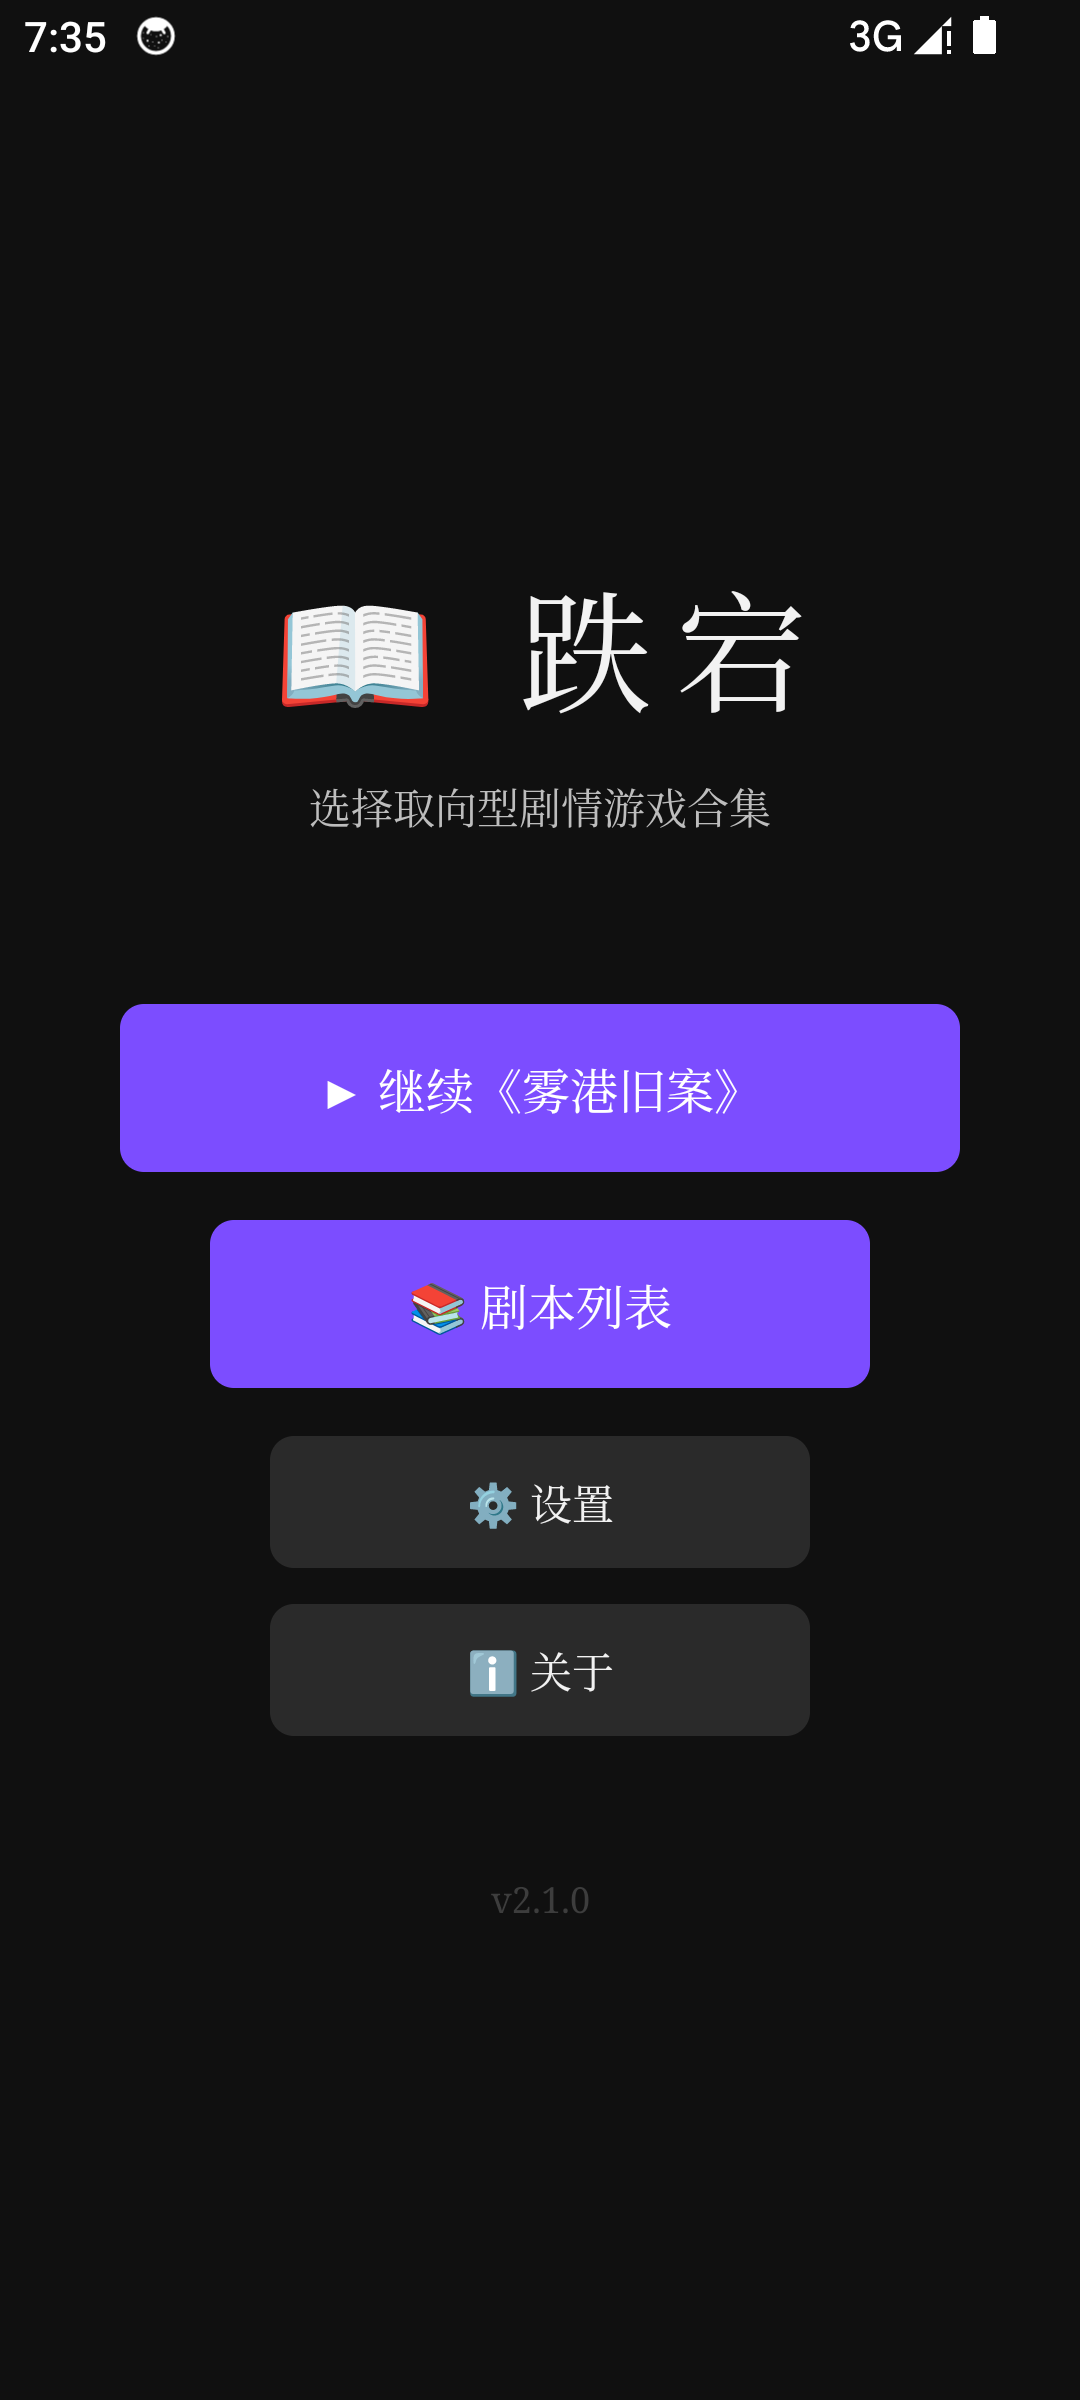
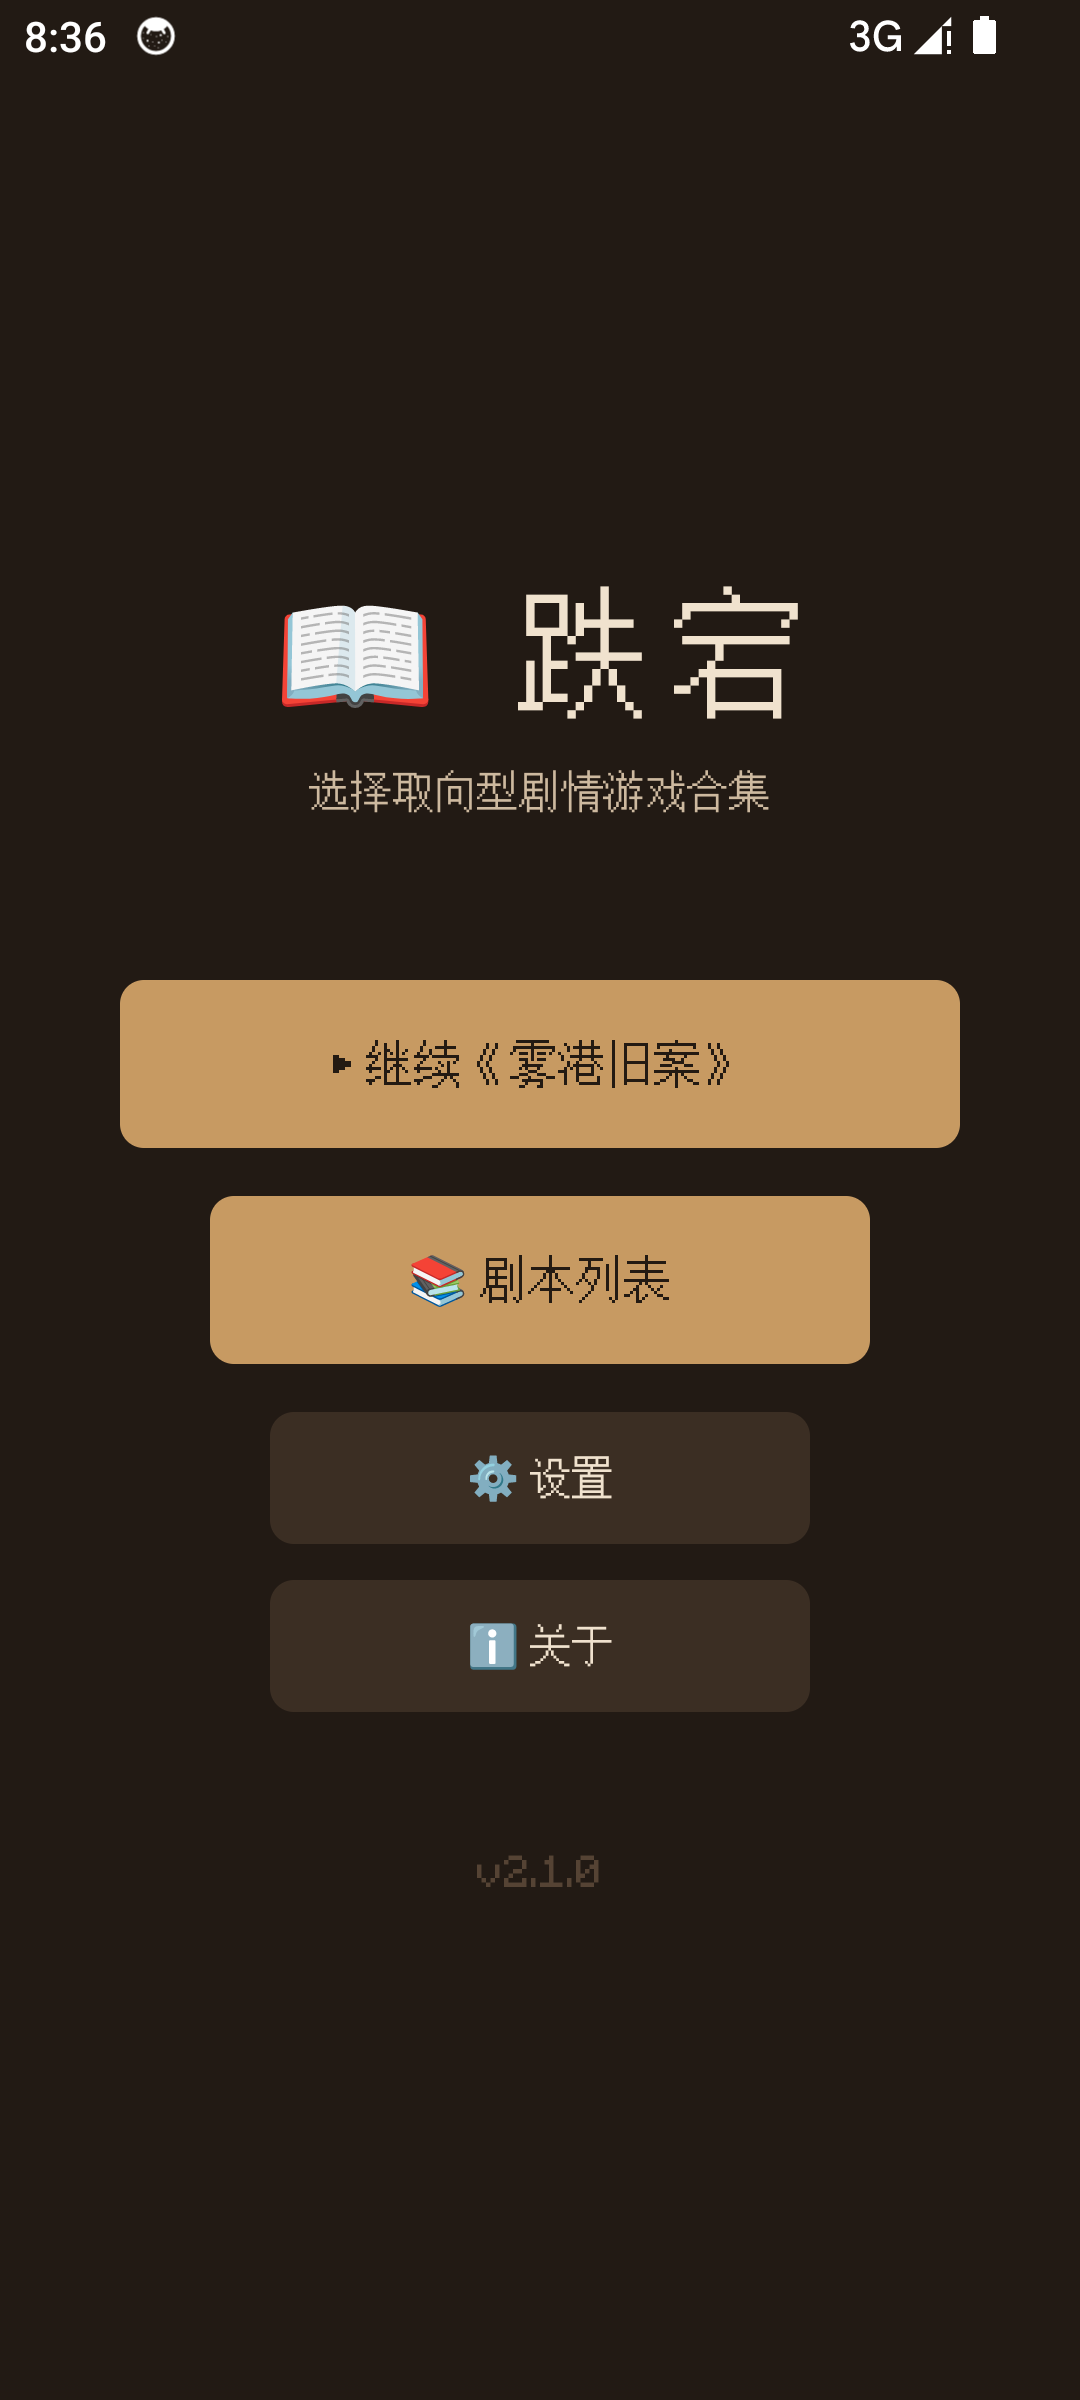
docs: 平台化文案（剧本按 DLC 呈现），关于页与列表页去掉解释性文字

Changed region(s): [[0.0917, 0.4062, 0.8861, 0.7188], [0.275, 0.25, 0.7333, 0.3438], [0.4583, 0.75, 0.55, 0.8125]]

diff --git a/app/src/main/java/com/yumoo/diedang/ui/screens/AboutScreen.kt b/app/src/main/java/com/yumoo/diedang/ui/screens/AboutScreen.kt
@@ -15,21 +15,25 @@ import androidx.compose.foundation.shape.RoundedCornerShape
 import androidx.compose.foundation.verticalScroll
 import androidx.compose.material3.Card
 import androidx.compose.material3.CardDefaults
+import androidx.compose.material3.MaterialTheme
 import androidx.compose.material3.Text
 import androidx.compose.material3.TextButton
 import androidx.compose.runtime.Composable
 import androidx.compose.ui.Modifier
-import androidx.compose.material3.MaterialTheme
+import androidx.compose.ui.platform.LocalUriHandler
 import androidx.compose.ui.text.TextStyle
 import androidx.compose.ui.unit.dp
 import androidx.compose.ui.unit.sp
 import com.yumoo.diedang.settings.APP_VERSION
 import com.yumoo.diedang.ui.theme.LocalStoryFont
 
-/** 关于页：应用信息 + 引擎能力说明（改版后不再展示单个剧本的硬编码信息）。 */
+private const val REPO_URL = "https://github.com/CLoneLING/DieDang"
+
+/** 关于页：只有事实信息。 */
 @Composable
 fun AboutScreen(onBack: () -> Unit) {
     BackHandler { onBack() }
+    val uriHandler = LocalUriHandler.current
     Column(
         modifier = Modifier
             .fillMaxSize()
@@ -46,46 +50,30 @@ fun AboutScreen(onBack: () -> Unit) {
         }
         Spacer(Modifier.height(16.dp))
 
-        InfoCard("📱 应用信息") {
-            InfoRow("名称", APP_NAME)
-            InfoRow("版本", APP_VERSION)
-            InfoRow("开发者", "YuMoo")
-            InfoRow("简介", "选择取向型剧情游戏合集，可自由制作剧本上传至游戏。")
-        }
-        Spacer(Modifier.height(16.dp))
-
-        InfoCard("🧩 引擎能力") {
-            InfoRow("剧本格式", "Kotlin Scene/Option 列表（JSON 文件剧本开发中）")
-            InfoRow("状态系统", "flags 标记 / counters 数值，剧本自由定义")
-            InfoRow("条件选项", "option.condition 按状态显示或隐藏")
-            InfoRow("限时机制", "场景 timeLimit，归零跳转 timeout 结局")
-            InfoRow("存档", "自动保存进度 + 结局收集记录")
-        }
-        Spacer(Modifier.height(16.dp))
-
-        InfoCard("✍ 剧本作者须知") {
-            Text(
-                "剧本只需实现 buildScenes(): List<Scene> 与 getStoryInfo()，"
-                    + "并在 StoryRegistry 中注册即可被引擎加载。\n"
-                    + "场景文本用空行分段，引擎逐段打字机展示；"
-                    + "限时场景需要提供 id = \"timeout\" 的结局场景。",
-                style = TextStyle(fontFamily = LocalStoryFont.current, fontSize = 13.sp, lineHeight = 22.sp, color = MaterialTheme.colorScheme.onSurface)
-            )
-        }
-    }
-}
-
-@Composable
-private fun InfoCard(title: String, content: @Composable () -> Unit) {
-    Card(
-        modifier = Modifier.fillMaxWidth(),
-        shape = RoundedCornerShape(12.dp),
-        colors = CardDefaults.cardColors(containerColor = MaterialTheme.colorScheme.surfaceVariant)
-    ) {
-        Column(modifier = Modifier.padding(16.dp)) {
-            Text(title, style = TextStyle(fontFamily = LocalStoryFont.current, fontSize = 16.sp, color = MaterialTheme.colorScheme.onSurface))
-            Spacer(Modifier.height(8.dp))
-            content()
+        Card(
+            modifier = Modifier.fillMaxWidth(),
+            shape = RoundedCornerShape(12.dp),
+            colors = CardDefaults.cardColors(containerColor = MaterialTheme.colorScheme.surfaceVariant)
+        ) {
+            Column(modifier = Modifier.padding(16.dp)) {
+                InfoRow("名称", APP_NAME)
+                InfoRow("版本", APP_VERSION)
+                InfoRow("开发者", "YuMoo")
+                Row(modifier = Modifier.fillMaxWidth().padding(vertical = 3.dp)) {
+                    Text(
+                        "仓库：",
+                        style = TextStyle(fontFamily = LocalStoryFont.current, fontSize = 13.sp, color = MaterialTheme.colorScheme.onSurfaceVariant),
+                        modifier = Modifier.width(76.dp)
+                    )
+                    TextButton(onClick = { runCatching { uriHandler.openUri(REPO_URL) } }, contentPadding = androidx.compose.foundation.layout.PaddingValues(0.dp)) {
+                        Text(
+                            REPO_URL.removePrefix("https://"),
+                            style = TextStyle(fontFamily = LocalStoryFont.current, fontSize = 13.sp, color = MaterialTheme.colorScheme.primary),
+                            modifier = Modifier.weight(1f, fill = false)
+                        )
+                    }
+                }
+            }
         }
     }
 }

diff --git a/app/src/main/java/com/yumoo/diedang/ui/screens/StoryListScreen.kt b/app/src/main/java/com/yumoo/diedang/ui/screens/StoryListScreen.kt
@@ -65,7 +65,7 @@ fun StoryListScreen(
         }
         Spacer(Modifier.height(12.dp))
         Text(
-            "共 ${stories.size} 个剧本 / 上传剧本功能开发中",
+            "共 ${stories.size} 个剧本",
             style = TextStyle(fontFamily = LocalStoryFont.current, fontSize = 12.sp, color = MaterialTheme.colorScheme.onSurfaceVariant)
         )
         Spacer(Modifier.height(16.dp))

diff --git a/app/src/main/java/com/yumoo/diedang/ui/screens/SettingsScreen.kt b/app/src/main/java/com/yumoo/diedang/ui/screens/SettingsScreen.kt
@@ -106,7 +106,7 @@ fun SettingsScreen(
         }
         Spacer(Modifier.height(8.dp))
         Text(
-            "当前版本 v$APP_VERSION · 更新包直接从 GitHub Release 下载",
+            "v$APP_VERSION",
             style = TextStyle(fontFamily = LocalStoryFont.current, fontSize = 11.sp, color = colors.onSurfaceVariant)
         )
         Spacer(Modifier.height(40.dp))

diff --git a/README.md b/README.md
@@ -1,67 +1,49 @@
 # 跌宕（DieDang）
 
-一款本地运行的互动小说 / 剧本播放器。剧本以 Kotlin DSL 编写，随 App 一起打包，不需要网络、不需要账号，打开就能读。
+互动小说播放器 · Android
 
-当前内置两部剧本：
-
-| 剧本 | 题材 | 规模 | 结局 |
-| --- | --- | --- | --- |
-| 《雾港旧案》 | 悬疑 / 推理 / 犯罪 | 四部 80 章，242 场景，约 23 万字 | 4 |
-| 《梧桐树下的回声》 | 生活 / 推理 / 伦理 | 166 场景，约 7.5 万字 | 9 |
-
-## 特性
-
-- **逐段打字机 + 点击推进**：长段落按 `\n\n` 切分，逐段显示，点一下跳过打字、再点进入下一段。
-- **判断型选项**：每章提供互斥的判断分支，选择写入线索标记（flag），结局由标记组合判定。
-- **分支不重复**：同一个场景的两个分支各自是新文本，结构校验脚本会拦住重复与死路。
-- **自动存档**：退出、切后台、换剧本都保留进度，主菜单一键「继续」。
-- **结局收集**：剧本列表显示已解锁结局数。
-- **纯本地**：无网络权限，存档在 SharedPreferences 中。
+- 包名：`com.yumoo.diedang`
+- 版本：2.1.0（versionCode 21000）
+- 系统：minSdk 24 / targetSdk 36
 
 ## 构建
 
 环境：JDK 21，Android SDK（compileSdk 36.1）。
 
 ```powershell
-$env:JAVA_HOME   = "D:\Android\jdk-21.0.8"
+$env:JAVA_HOME    = "D:\Android\jdk-21.0.8"
 $env:ANDROID_HOME = "D:\Android\android-sdk\AndroidStudioSDK"
 .\gradlew.bat :app:assembleDebug
 ```
 
-产物：`app/build/outputs/apk/debug/app-debug.apk`（minSdk 24 / targetSdk 36）。
+产物：`app/build/outputs/apk/debug/app-debug.apk`。
 
-> 说明：仓库内暂未提供正式发布签名。当前 Release 附带的 APK 为 debug 签名，可直接安装，但不适合上架应用商店；如需正式签名，请自行生成 keystore 并在 `app/build.gradle.kts` 中配置 `signingConfigs`（keystore 与密码不要入库）。
+Release 附件为 debug 签名，可直接安装，不可上架。正式签名请自行生成 keystore 并在 `app/build.gradle.kts` 配置 `signingConfigs`（keystore 与密码不要入库）。
 
-## 目录结构
+## 目录
 
 ```
 app/src/main/java/com/yumoo/diedang/
-├── model/StoryModel.kt        GameState / Scene / Option
-├── engine/Story.kt            Story 接口、StoryAdapter、结构校验
-├── engine/StoryRegistry.kt    剧本注册表（新增剧本只改这里）
-├── engine/StorySession.kt     运行时状态机：推段落、跳场景、倒计时
-├── save/SaveRepository.kt     存档与结局收集（SharedPreferences + JSON）
-├── story/wugang/              《雾港旧案》：Dsl.kt + Story.kt + Part1A..Part4D.kt
-├── story/wutong/              《梧桐树下的回声》：StoryScript.kt
-└── ui/                        Compose 界面：Menu / StoryList / Game / About
+├── model/                     GameState / Scene / Option
+├── engine/                    Story、StoryAdapter、StoryRegistry、StorySession
+├── save/                      存档与结局收集
+├── settings/                  主题 / 字体 / 字号、版本号
+├── update/                    GitHub Release 检测、下载、安装
+├── story/wugang/              DLC《雾港旧案》
+├── story/wutong/              DLC《梧桐树下的回声》
+└── ui/                        Menu / StoryList / Game / Settings / About
 ```
 
-`docs/` 下是《雾港旧案》的设定集（`wugang_bible.md`）、写作规范（`wugang_spec.md`）与写作说明（`wugang_brief.md`）。
+`tools/`：`validate_story.py`（结构校验）、`check_quality.py`（文风校验）。
 
-`tools/` 下是两个校验脚本，写剧本时用得上：
+## DLC
 
-```powershell
-python tools/validate_story.py   # 结构：重复 id / 悬空跳转 / 回头路 / 死路 / 章节齐全
-python tools/check_quality.py    # 文风：禁语、选项过长、分支重复度
-```
-
-## 加一部新剧本
-
-1. 在 `story/` 下新建包，用一个 `buildScenes(): List<Scene>` 返回场景列表（可用 `story/wugang/Dsl.kt` 的 `sc` / `op` / `opFlag` 写法）。
-2. 提供 `getStoryInfo(): StoryInfo`。
-3. 在 `engine/StoryRegistry.kt` 的 `builtins` 里加一条 `BuiltinStory`。
-4. 不用动 UI，也不用动存档层。
+| 剧本 | 作者 | 题材 | 规模 | 结局 |
+| --- | --- | --- | --- | --- |
+| 《雾港旧案》 | YuMoo | 悬疑 / 推理 / 犯罪 | 四部 80 章，242 场景 | 4 |
+| 《梧桐树下的回声》 | YuMoo | 生活 / 推理 / 伦理 | 166 场景 | 9 |
 
 ## 版本
 
-- 2.0.0 —— 引擎与 UI 重写，新增《雾港旧案》（80 章 / 242 场景 / 4 结局）。
+- 2.1.0 —— 设置页（主题 / 字体 / 字号）、应用内更新、状态栏修复。
+- 2.0.0 —— 引擎与 UI 重写。

diff --git a/docs/RELEASE_NOTES_2.1.0.md b/docs/RELEASE_NOTES_2.1.0.md
@@ -1,0 +1,7 @@
+## 2.1.0
+
+- 新增设置页：主题（跟随系统 / 深色 / 浅色 / 卡其 / 咖啡）、字体（像素体 / 无衬线 / 衬线）、字号（小 / 标准 / 大 / 特大）
+- 新增应用内更新：检测 GitHub Release，取得通知与安装权限后下载并安装，支持重试
+- 修复状态栏遮挡
+- 界面配色统一跟随主题
+- 关于页精简
